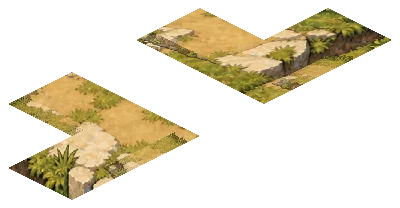
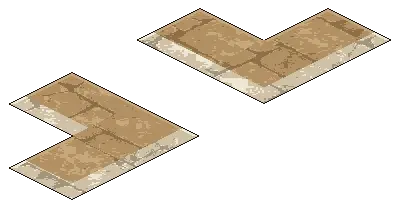
art: paint the eastern shelf as packed earth on a cut stone face
The shelf was a generated PNG registered into its two projected cell groups,
so it carried the same desert ochre the atlas gave the road. It is now
painted from the village material in the two keys the 3 table gives what the
piece depicts: a walkable ledge of packed earth standing on a cut stone block
face, the face showing only where the ledge's down-screen side is exposed,
with the uniform ink around the silhouette and a thin pale rim inside its lit
edge.

The cell envelope, the (19,4) road exit and the projected bounds do not move,
and the existing coverage test still holds them. The packer takes no argument
now and has a main() guard, so the shelf can be rebuilt without hunting for
the generation pass's PNG. Plate 9,870 -> 7,344 B.

Changed region(s): [[0.0, 0.3462, 0.51, 0.9519], [0.33, 0.0288, 0.99, 0.4904]]

diff --git a/scripts/art/forest-raised-shelf.ts b/scripts/art/forest-raised-shelf.ts
@@ -1,192 +1,126 @@
-/** Pack the generated forest shelf into the exact elevated cell envelope. */
+/**
+ * Pack the forest's eastern shelf into the exact elevated cell envelope.
+ *
+ *   node --import tsx scripts/art/forest-raised-shelf.ts
+ *
+ * The shelf used to be a generated PNG registered into the projected cell
+ * groups, which is why it arrived carrying the same desert ochre the forest
+ * atlas gave the road: once W2 re-keyed the route and its verges to the
+ * village's hand, the shelf was one of three pieces left speaking the old
+ * language. It is now painted from `forest-village-material.ts` like the rest
+ * of the board, in the two keys the DL-2 §3 table gives what this piece
+ * actually depicts — a low ledge of **packed earth** standing on a **cut stone
+ * block face**, the face showing only where the ledge's down-screen side is
+ * exposed, with the bible's `#1b1410` ink around the silhouette and a thin pale
+ * rim inside its lit edge.
+ *
+ * The cell envelope, the (19,4) road exit and the projected bounds are
+ * unchanged, and no map row, key or scene id moves with this.
+ */
 import { mkdirSync, writeFileSync } from 'node:fs';
 import { FOREST_ROAD } from '../../src/content/maps/combat';
 import {
   FOREST_RAISED_SHELF,
   FOREST_RAISED_SHELF_CELLS,
 } from '../../src/content/scenes/forestRoad';
-import { newImage, pixelAt, readImage, setPixel } from './lib/image';
+import { newImage, setPixel } from './lib/image';
+import type { Image } from './lib/image';
 import { encodeWebp } from './lib/webp';
+import { FOREST_GROUND_QUALITY, loadForestMaterial } from './forest-village-material';
+import type { ForestMaterial, ToneName } from './forest-village-material';
 
-const sourcePath = process.argv[2];
-if (!sourcePath) throw new Error('Provide the generated forest shelf PNG.');
-const source = readImage(sourcePath);
-if (source.width !== source.height || source.width < 512)
-  throw new Error(
-    `Expected a square shelf source of at least 512px; received ${source.width}x${source.height}.`,
-  );
+const TILE_DIAGONAL = Math.hypot(64, 32);
+const INK_HALF = 1 / TILE_DIAGONAL;
+const RIM_WIDTH = 3 / TILE_DIAGONAL;
+/**
+ * How much of a cell's down-screen corner shows the block face. This is the
+ * figure the generated shelf was registered at, kept so the ledge's apparent
+ * height does not change with the re-key.
+ */
+export const SHELF_FACE = 0.26;
 
-const raised = new Set(FOREST_RAISED_SHELF_CELLS.map(({ x, y }) => `${x},${y}`));
-const projected = (x: number, y: number) => ({
-  x: 768 + (x - y) * 64,
-  y: (x + y + 1) * 32,
-});
+export const FOREST_RAISED_SHELF_OUTPUT = 'public/art/maps/forest-scene/raised-shelf.webp';
 
-const cellAt = (x: number, y: number): boolean => raised.has(`${x},${y}`);
+export function packRaisedShelf(material: ForestMaterial): Image {
+  const raised = new Set(FOREST_RAISED_SHELF_CELLS.map(({ x, y }) => `${x},${y}`));
+  const cellAt = (x: number, y: number): boolean => raised.has(`${x},${y}`);
+  const image = newImage(FOREST_RAISED_SHELF.width, FOREST_RAISED_SHELF.height);
+  for (let py = 0; py < image.height; py++)
+    for (let px = 0; px < image.width; px++) {
+      const worldX = FOREST_RAISED_SHELF.x + px + 0.5;
+      const worldY = FOREST_RAISED_SHELF.y + py + 0.5;
+      const diagonal = (worldX - 768) / 64;
+      const sum = worldY / 32;
+      const x = (diagonal + sum) / 2;
+      const y = (sum - diagonal) / 2;
+      const ix = Math.floor(x),
+        iy = Math.floor(y);
+      if (!cellAt(ix, iy)) continue;
+      const fx = x - ix,
+        fy = y - iy;
 
-const groupBounds = (cells: readonly { x: number; y: number }[]) => {
-  const centers = cells.map(({ x, y }) => projected(x, y));
-  const minX = Math.min(...centers.map(({ x }) => x)) - 64;
-  const maxX = Math.max(...centers.map(({ x }) => x)) + 64;
-  const minY = Math.min(...centers.map(({ y }) => y)) - 32;
-  const maxY = Math.max(...centers.map(({ y }) => y)) + 32;
-  return {
-    x: minX - FOREST_RAISED_SHELF.x,
-    y: minY - FOREST_RAISED_SHELF.y,
-    width: maxX - minX,
-    height: maxY - minY,
-  };
-};
-
-/** Each generated cluster is registered against its matching projected cell group. */
-const groups = [
-  {
-    cells: FOREST_RAISED_SHELF_CELLS.filter(({ y }) => y <= 3),
-    source: { x: 413, y: 113, width: 825, height: 657 },
-    material: { x: 533, y: 253, width: 320, height: 180 },
-  },
-  {
-    cells: FOREST_RAISED_SHELF_CELLS.filter(({ y }) => y >= 5),
-    source: { x: 42, y: 556, width: 820, height: 592 },
-    material: { x: 262, y: 716, width: 320, height: 180 },
-  },
-].map((group) => ({ ...group, target: groupBounds(group.cells) }));
-
-const groupAt = (x: number, y: number) =>
-  groups.find((group) => group.cells.some((cell) => cell.x === x && cell.y === y));
-
-/** Bilinear lookup over the generated shelf clusters, preserving their alpha. */
-function sourceColour(x: number, y: number): [number, number, number, number] {
-  const samples = [
-    pixelAt(source, Math.floor(x), Math.floor(y)),
-    pixelAt(source, Math.ceil(x), Math.floor(y)),
-    pixelAt(source, Math.floor(x), Math.ceil(y)),
-    pixelAt(source, Math.ceil(x), Math.ceil(y)),
-  ];
-  let red = 0,
-    green = 0,
-    blue = 0,
-    alpha = 0;
-  for (const [r, g, b, a] of samples) {
-    const opacity = a / 255;
-    red += r * opacity;
-    green += g * opacity;
-    blue += b * opacity;
-    alpha += opacity;
-  }
-  if (alpha <= 0.02) return [0, 0, 0, 0];
-  return [
-    Math.round(red / alpha),
-    Math.round(green / alpha),
-    Math.round(blue / alpha),
-    Math.round((alpha / samples.length) * 255),
-  ];
-}
-
-/** Fill a rare anti-aliased gap from the same verified opaque top-material crop. */
-function nearestMaterial(
-  x: number,
-  y: number,
-  bounds: { x: number; y: number; width: number; height: number },
-): [number, number, number] | null {
-  for (let radius = 1; radius <= 32; radius++) {
-    for (const [dx, dy] of [
-      [radius, 0],
-      [-radius, 0],
-      [0, radius],
-      [0, -radius],
-      [radius, radius],
-      [radius, -radius],
-      [-radius, radius],
-      [-radius, -radius],
-    ] as const) {
-      const sx = Math.round(x + dx);
-      const sy = Math.round(y + dy);
-      if (
-        sx < bounds.x ||
-        sy < bounds.y ||
-        sx >= bounds.x + bounds.width ||
-        sy >= bounds.y + bounds.height
-      )
-        continue;
-      const candidate = pixelAt(source, sx, sy);
-      if (candidate[3] > 64) return [candidate[0], candidate[1], candidate[2]];
-    }
-  }
-  return null;
-}
-
-const image = newImage(FOREST_RAISED_SHELF.width, FOREST_RAISED_SHELF.height);
-
-for (let py = 0; py < image.height; py++) {
-  for (let px = 0; px < image.width; px++) {
-    const worldX = FOREST_RAISED_SHELF.x + px + 0.5;
-    const worldY = FOREST_RAISED_SHELF.y + py + 0.5;
-    const diagonal = (worldX - 768) / 64;
-    const sum = worldY / 32;
-    const cellX = (diagonal + sum) / 2;
-    const cellY = (sum - diagonal) / 2;
-    const ix = Math.floor(cellX);
-    const iy = Math.floor(cellY);
-    const group = cellAt(ix, iy) ? groupAt(ix, iy) : undefined;
-    if (!group) continue;
-
-    // Register each generated cluster to its own projected L-shaped footprint;
-    // sharing one crop across both groups creates detached slivers and leaves
-    // portions of the authored elevation showing through.
-    const u = (worldX - (FOREST_RAISED_SHELF.x + group.target.x)) / group.target.width;
-    const v = (worldY - (FOREST_RAISED_SHELF.y + group.target.y)) / group.target.height;
-    const materialX = group.material.x + u * group.material.width;
-    const materialY = group.material.y + v * group.material.height;
-    const material = sourceColour(materialX, materialY);
-    const fallback =
-      material[3] > 0
-        ? ([material[0], material[1], material[2]] as const)
-        : nearestMaterial(materialX, materialY, group.material);
-    if (!fallback) continue;
-
-    let [red, green, blue] = fallback;
-    const fx = cellX - ix;
-    const fy = cellY - iy;
-    const exposedEdge = (!cellAt(ix + 1, iy) && fx > 0.74) || (!cellAt(ix, iy + 1) && fy > 0.74);
-    if (exposedEdge) {
-      const rimX = group.source.x + u * group.source.width;
-      const rimY = group.source.y + v * group.source.height;
-      const rim = sourceColour(rimX, rimY);
-      if (rim[3] > 0.55) {
-        red = Math.round(red * 0.28 + rim[0] * 0.72);
-        green = Math.round(green * 0.28 + rim[1] * 0.72);
-        blue = Math.round(blue * 0.28 + rim[2] * 0.72);
+      // Distance to the nearest edge this shelf does not continue across, and
+      // whether that edge is the up-screen one, which is the lit side in this
+      // projection and therefore the one that carries the rim.
+      let edge = Infinity;
+      let lit = false;
+      for (const [ox, oy] of [
+        [-1, 0],
+        [1, 0],
+        [0, -1],
+        [0, 1],
+      ] as const) {
+        if (cellAt(ix + ox, iy + oy)) continue;
+        const edgeDistance = ox < 0 ? fx : ox > 0 ? 1 - fx : oy < 0 ? fy : 1 - fy;
+        if (edgeDistance < edge) {
+          edge = edgeDistance;
+          lit = ox < 0 || oy < 0;
+        }
       }
+      // The block face is the down-screen exposure: where the ledge ends on its
+      // +x or +y side there is a cut wall under the walkable top, and that wall
+      // is the only place cut stone shows.
+      const face =
+        (!cellAt(ix + 1, iy) && fx > 1 - SHELF_FACE) ||
+        (!cellAt(ix, iy + 1) && fy > 1 - SHELF_FACE);
+      const tone: ToneName = face ? 'stone' : 'road';
+      const rgb =
+        edge < INK_HALF
+          ? material.ink
+          : lit && edge < INK_HALF + RIM_WIDTH
+            ? material.rimOf(tone)
+            : material.colour(tone, x, y);
+      setPixel(image, px, py, [rgb[0], rgb[1], rgb[2], 255]);
     }
-    setPixel(image, px, py, [red, green, blue, 255]);
-  }
+  return image;
 }
 
-const output = 'public/art/maps/forest-scene/raised-shelf.webp';
-mkdirSync('public/art/maps/forest-scene', { recursive: true });
-const bytes = await encodeWebp(image, 84, true);
-writeFileSync(output, bytes);
+export async function main(): Promise<void> {
+  const image = packRaisedShelf(await loadForestMaterial());
+  mkdirSync('public/art/maps/forest-scene', { recursive: true });
+  const bytes = await encodeWebp(image, FOREST_GROUND_QUALITY, true);
+  writeFileSync(FOREST_RAISED_SHELF_OUTPUT, bytes);
+  const registration = {
+    map: FOREST_ROAD.id,
+    cells: FOREST_RAISED_SHELF_CELLS,
+    exitGap: { x: 19, y: 4 },
+    projectedBounds: FOREST_RAISED_SHELF,
+    source: 'scripts/art/forest-village-material.ts',
+    output: {
+      path: FOREST_RAISED_SHELF_OUTPUT,
+      width: image.width,
+      height: image.height,
+      bytes: bytes.length,
+      quality: FOREST_GROUND_QUALITY,
+    },
+    note: 'Painted from the village material in the DL-2 §3 packed-earth and cut-stone keys, clipped to the authored elevation mask. Collision, elevation and the road exit remain map-owned; no water or grid is painted.',
+  };
+  mkdirSync('art/raw/forest', { recursive: true });
+  writeFileSync(
+    'art/raw/forest/raised-shelf-registration.json',
+    JSON.stringify(registration, null, 2),
+  );
+  console.log(registration);
+}
 
-const registration = {
-  map: FOREST_ROAD.id,
-  cells: FOREST_RAISED_SHELF_CELLS,
-  exitGap: { x: 19, y: 4 },
-  projectedBounds: FOREST_RAISED_SHELF,
-  source: sourcePath,
-  sourcePixels: [source.width, source.height],
-  output: {
-    path: output,
-    width: image.width,
-    height: image.height,
-    bytes: bytes.length,
-    quality: 84,
-  },
-  note: 'Generated shelf material is clipped to the authored elevation mask. Collision, elevation and the road exit remain map-owned; no water or grid is painted.',
-};
-mkdirSync('art/raw/forest', { recursive: true });
-writeFileSync(
-  'art/raw/forest/raised-shelf-registration.json',
-  JSON.stringify(registration, null, 2),
-);
-console.log(registration);
+if (process.argv[1]?.endsWith('forest-raised-shelf.ts')) await main();

diff --git a/scripts/art/forest-raised-shelf.test.ts b/scripts/art/forest-raised-shelf.test.ts
@@ -6,8 +6,19 @@ import {
   FOREST_RAISED_SHELF,
   FOREST_RAISED_SHELF_CELLS,
 } from '../../src/content/scenes/forestRoad';
+import { toHex } from './lib/image';
+import { encodeWebp } from './lib/webp';
+import {
+  FOREST_ALL_TONES,
+  FOREST_GROUND_QUALITY,
+  FOREST_INK,
+  FOREST_PIECE_TONES,
+  FOREST_GROUND_TONES,
+  loadForestMaterial,
+} from './forest-village-material';
+import { FOREST_RAISED_SHELF_OUTPUT, packRaisedShelf } from './forest-raised-shelf';
 
-const OUTPUT = 'public/art/maps/forest-scene/raised-shelf.webp';
+const OUTPUT = FOREST_RAISED_SHELF_OUTPUT;
 const EXIT = { x: 19, y: 4 };
 const raised = new Set(FOREST_RAISED_SHELF_CELLS.map(({ x, y }) => `${x},${y}`));
 
@@ -48,4 +59,30 @@ it('decodes complete six-cell shelf coverage while leaving the road exit clear',
 
   expect(transparentExit).toBe(0);
   expect([...missingRaised.entries()]).toEqual([]);
+});
+
+it('ships the shelf the packer builds, in the packed-earth and cut-stone keys', async () => {
+  const image = packRaisedShelf(await loadForestMaterial());
+  expect(Buffer.from(await encodeWebp(image, FOREST_GROUND_QUALITY, true))).toEqual(
+    readFileSync(OUTPUT),
+  );
+  const allowed = new Set<string>([
+    FOREST_INK,
+    ...Object.values(FOREST_GROUND_TONES.road),
+    ...Object.values(FOREST_PIECE_TONES.stone),
+  ]);
+  const seen = new Set<string>();
+  for (let i = 0; i < image.data.length; i += 4) {
+    if ((image.data[i + 3] ?? 0) === 0) continue;
+    seen.add(toHex([image.data[i] ?? 0, image.data[i + 1] ?? 0, image.data[i + 2] ?? 0]));
+  }
+  // Two materials, two flat tones each plus a thin pale rim, and the ink: no
+  // continuous tone is left for a gradient or a distance haze to live in.
+  expect([...seen].filter((hex) => !allowed.has(hex))).toEqual([]);
+  // The ledge is packed earth standing on a cut stone face; both show.
+  expect(seen).toContain(FOREST_GROUND_TONES.road.base);
+  expect(seen).toContain(FOREST_PIECE_TONES.stone.base);
+  expect(seen).toContain(FOREST_INK);
+  // Nothing from the forest's other materials reaches this plate.
+  for (const hex of Object.values(FOREST_ALL_TONES.verge)) expect(seen).not.toContain(hex);
 });
